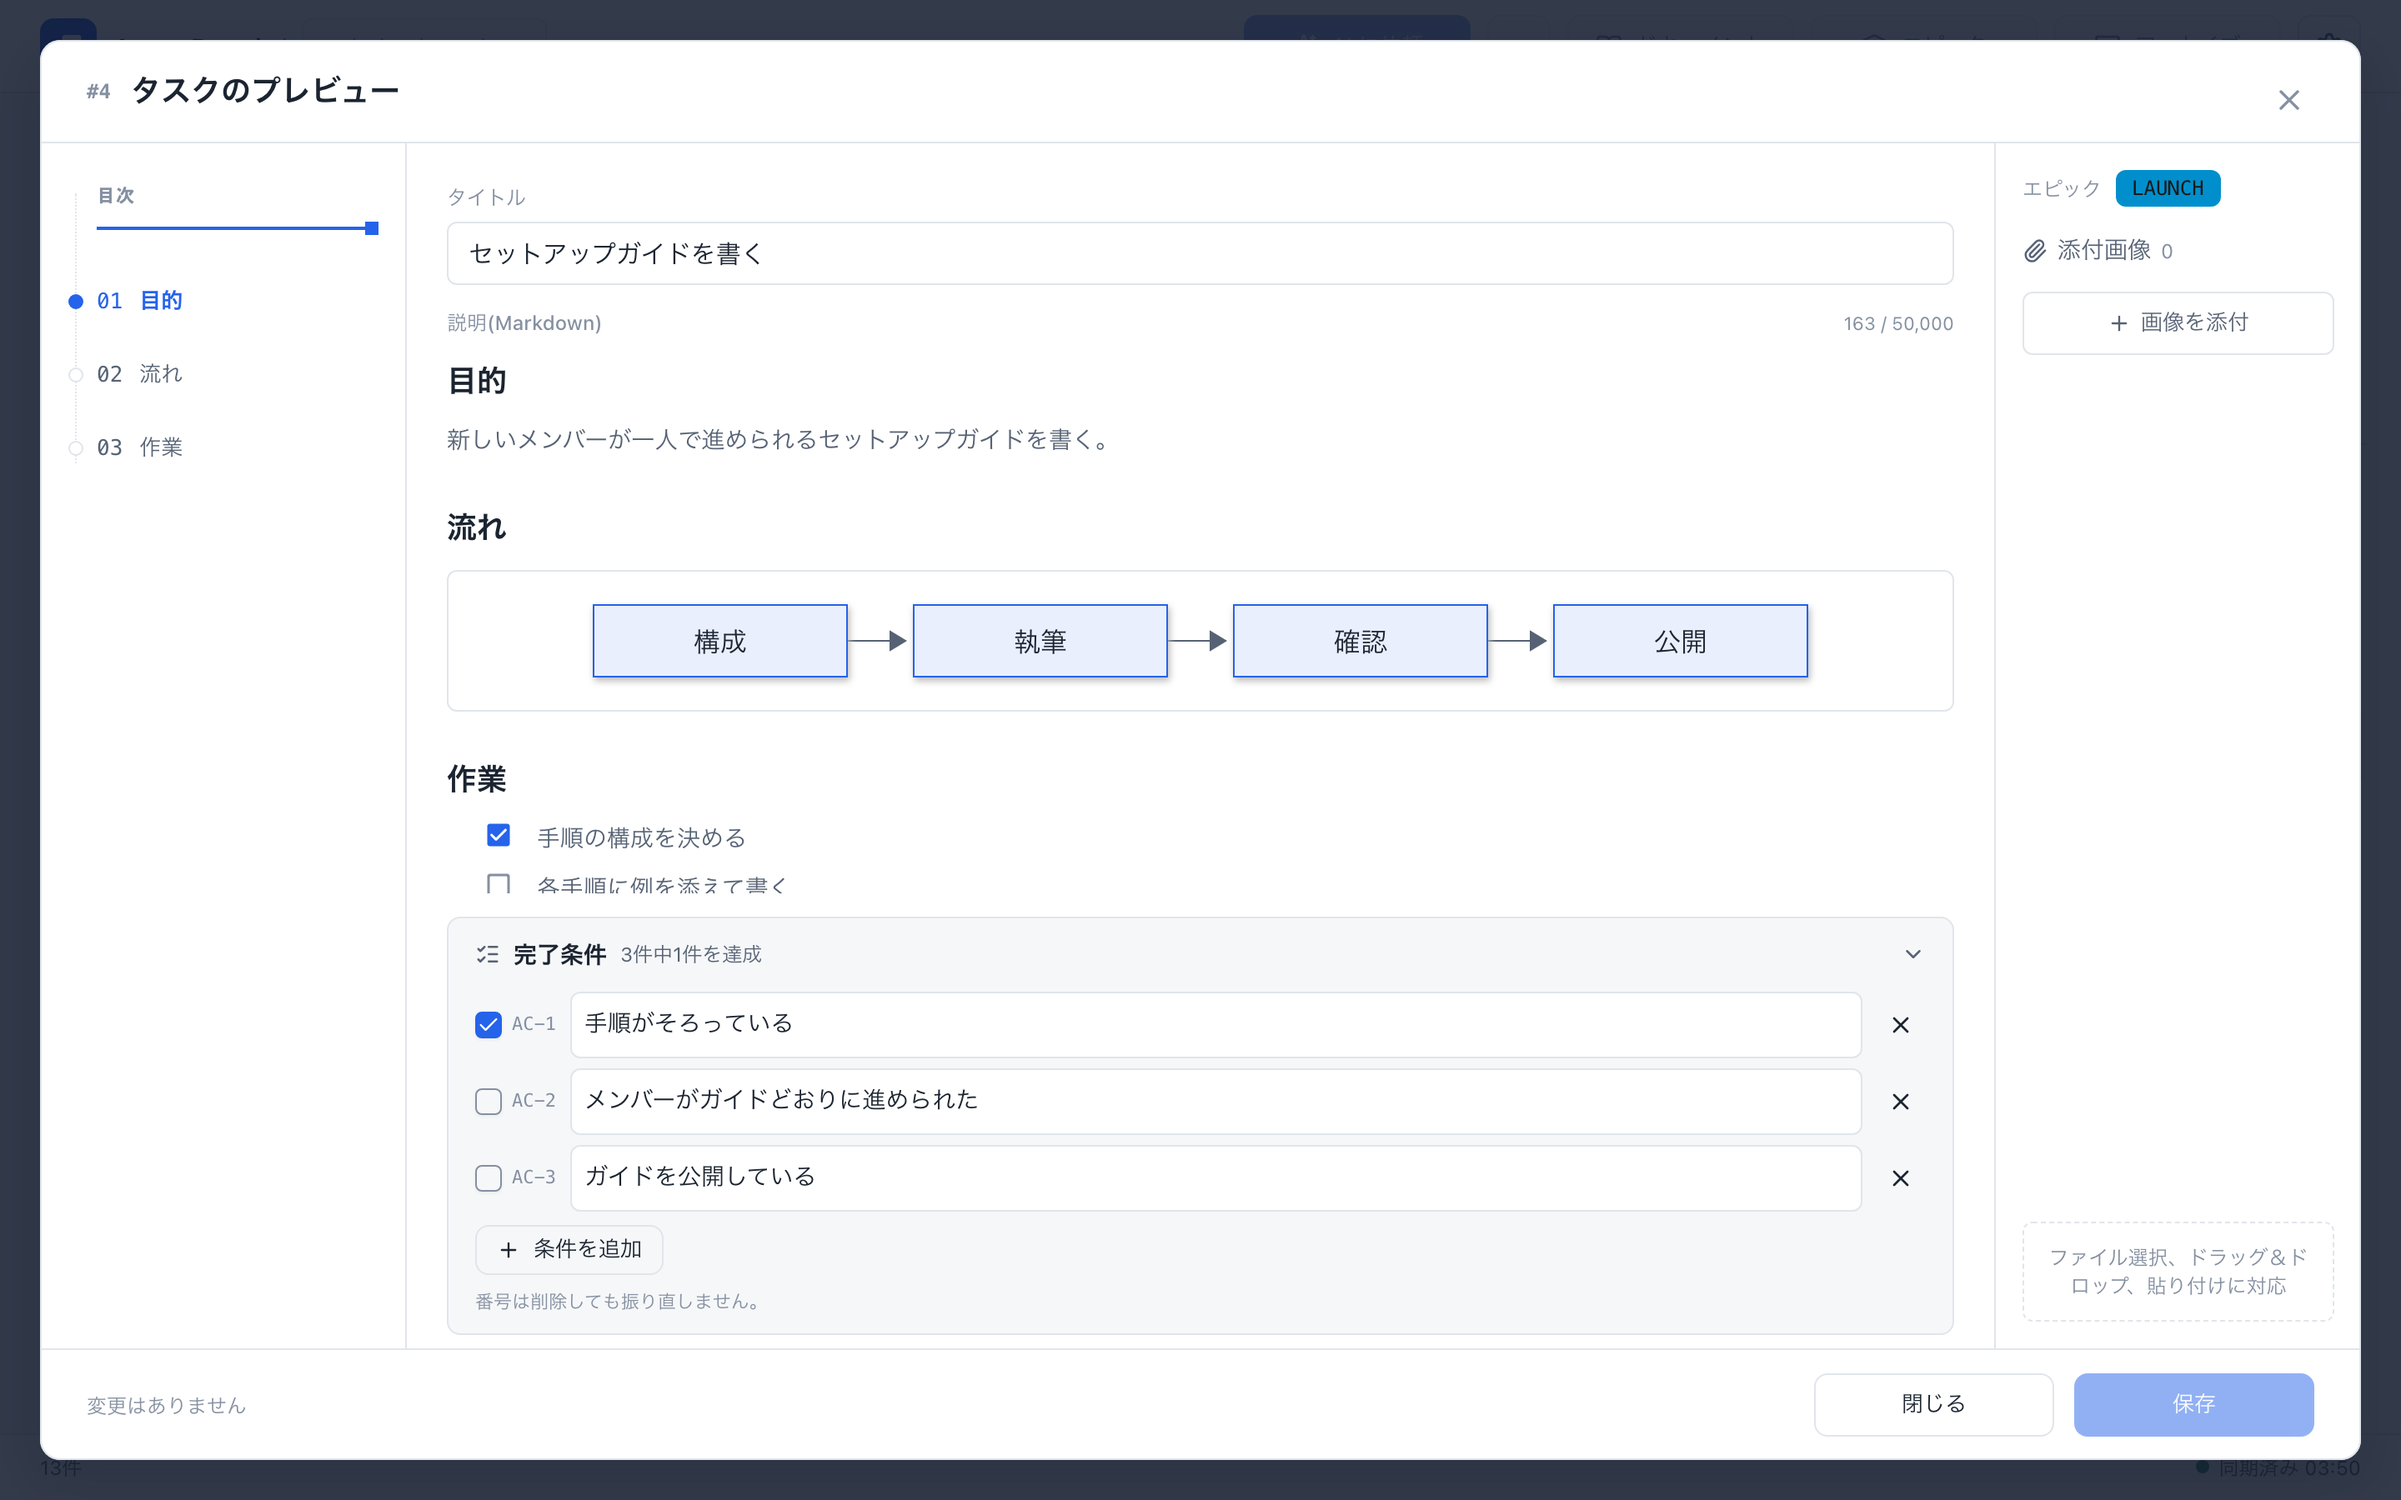
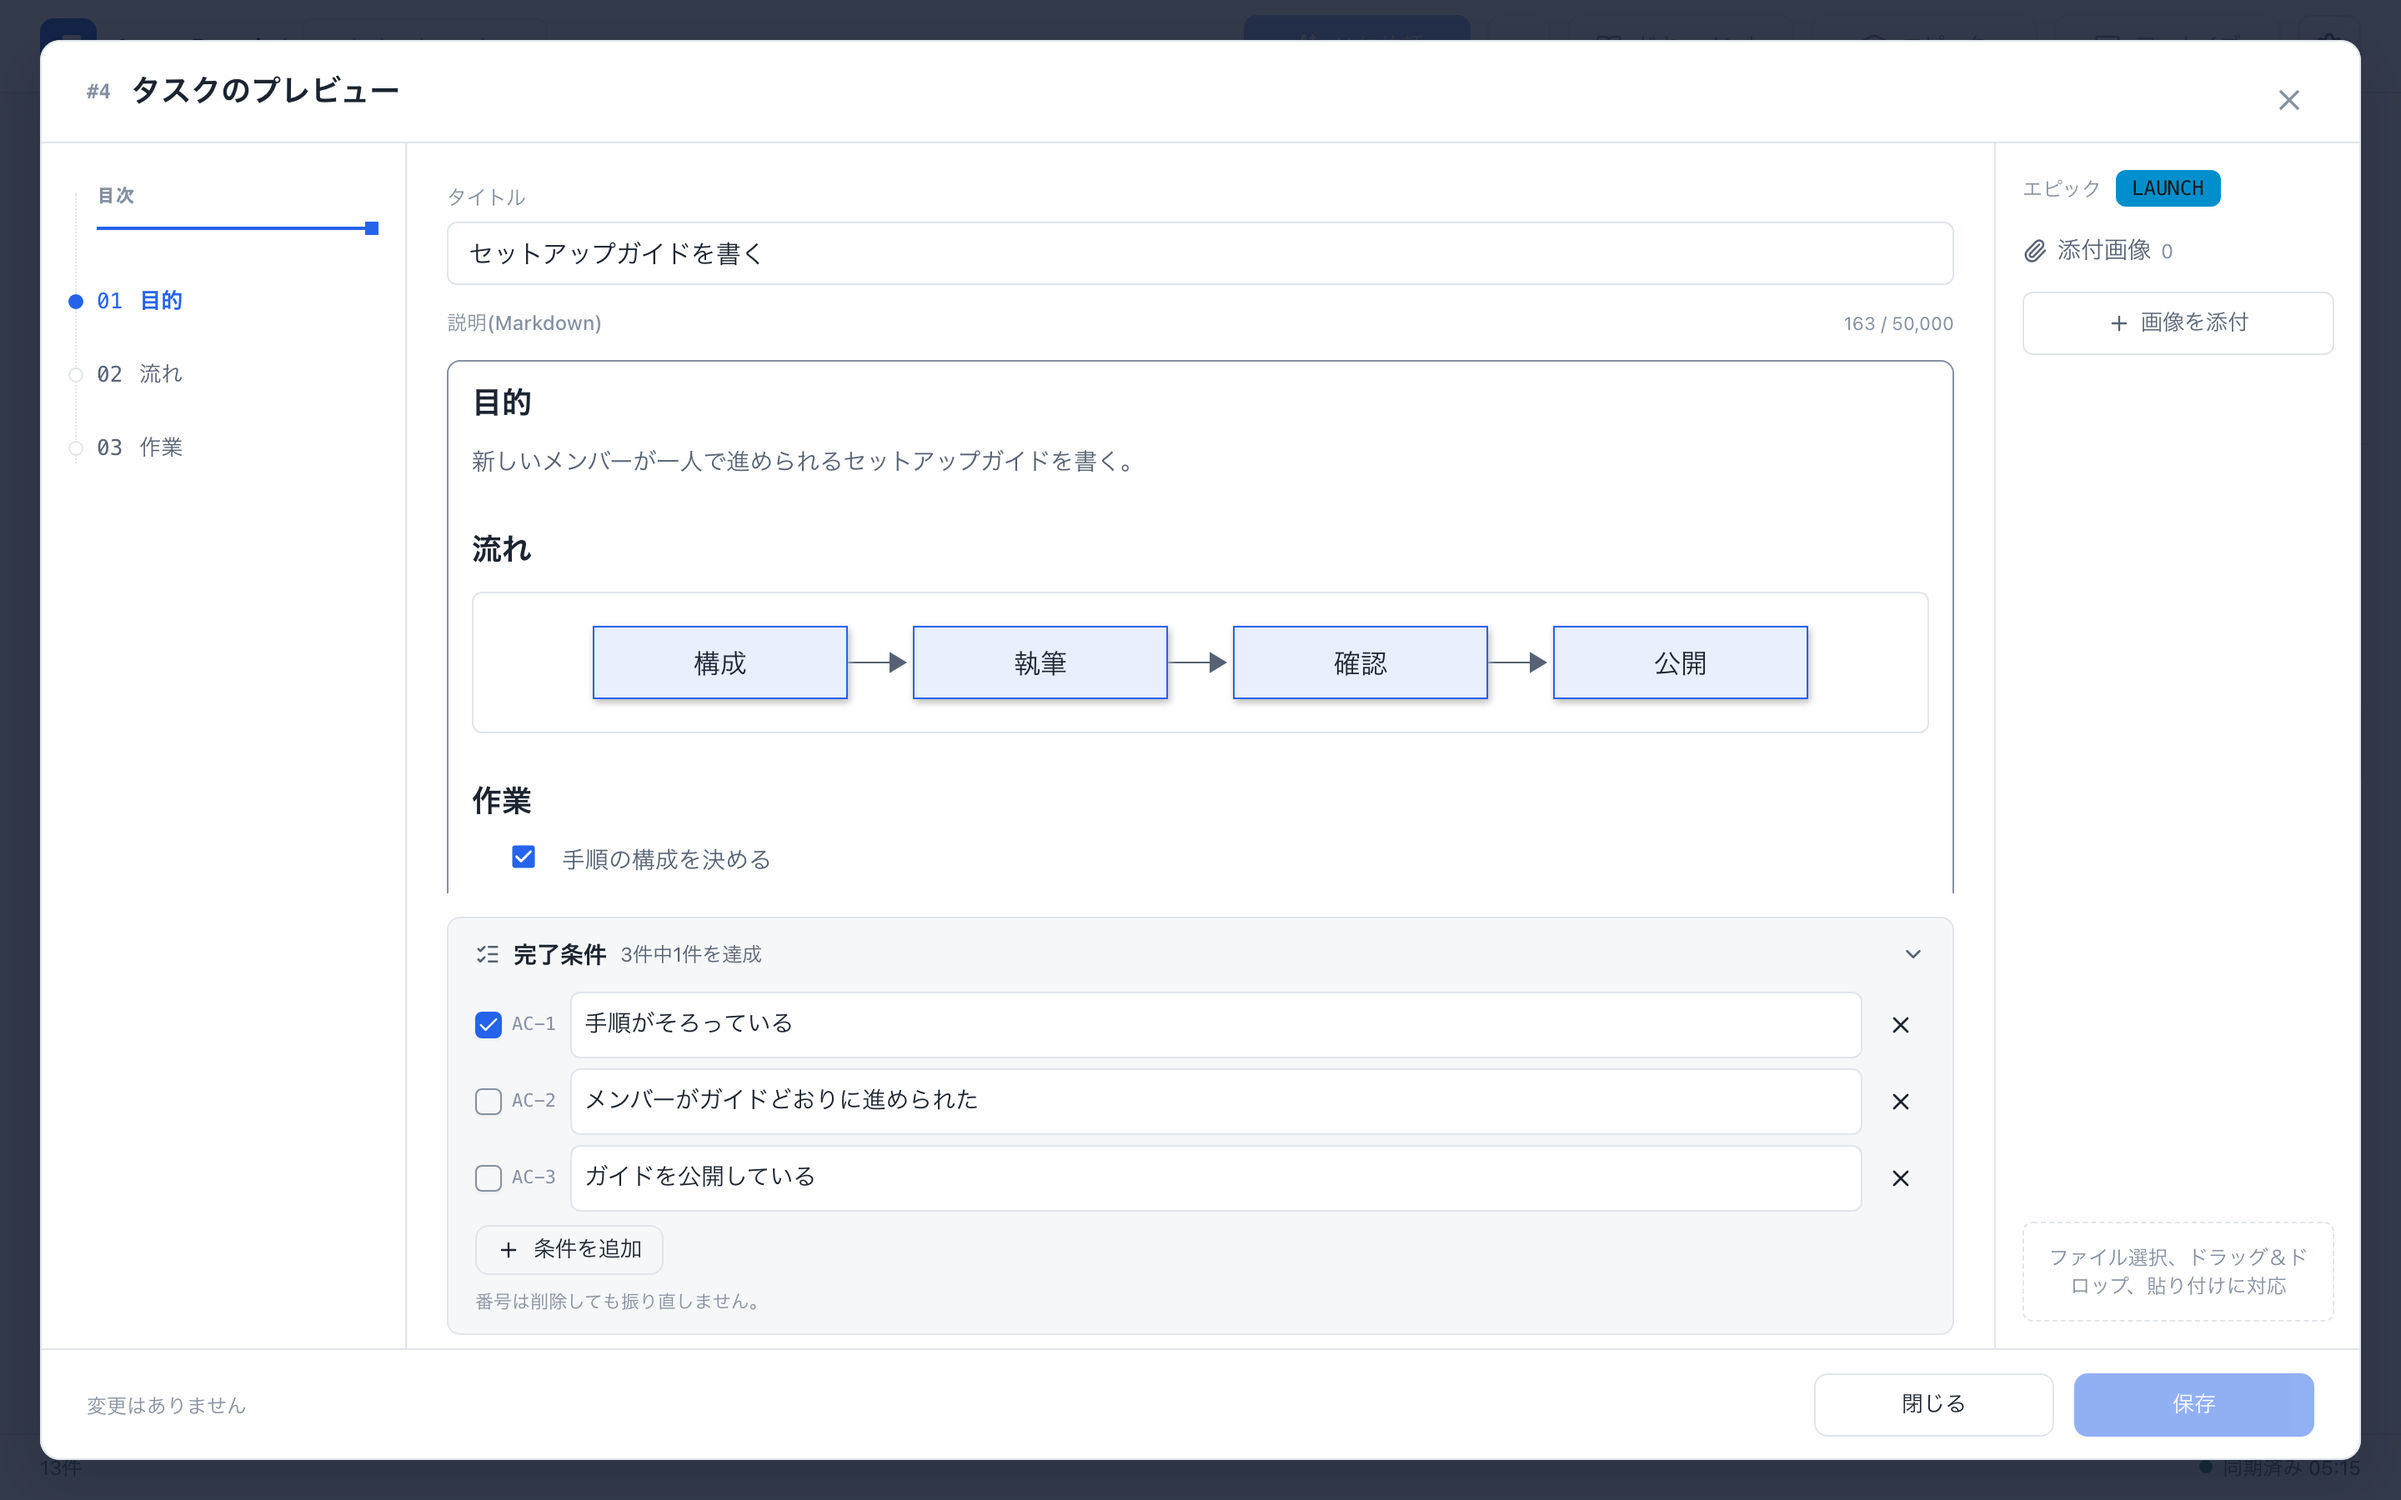
fix(web): give every Markdown input box the Ask AI frame and padding
The task, epic and docs editors now share the input border colour, the 12px by
14px padding, the accent focus border and the first-line alignment that the Ask AI
input has. The rule lives once in the common editor stylesheet; Ask AI keeps only
its own height. Editor screenshots are regenerated.

diff --git a/web/src/features/messages/ask/ask-ai.css b/web/src/features/messages/ask/ask-ai.css
@@ -12,33 +12,19 @@
   color: var(--r-text);
 }
 
-/* The input box: an outlined field in the input border colour, as tall as its text between a floor and
-   a ceiling, so a short request leaves no empty block and a long one scrolls inside the box. */
+/* The input box takes the shared editor frame; here it is as tall as its text between a floor and a
+   ceiling, so a short request leaves no empty block and a long one scrolls inside the box. */
 .ask-ai__box.editor__box {
   flex: none;
   height: auto;
   min-height: 140px;
   max-height: min(44vh, 360px);
-  padding: 12px 14px;
   overflow-y: auto;
-  border: 1px solid var(--r-input);
-  border-radius: 8px;
-  background: transparent;
   cursor: text;
-}
-
-.ask-ai__box.editor__box:focus-within {
-  border-color: var(--r-accent);
 }
 
 .ask-ai__box .rich-markdown .ProseMirror {
   min-height: 112px;
-}
-
-/* The first block sits on the top padding; a cursor widget may come before it. */
-.ask-ai__box .ProseMirror > :first-child,
-.ask-ai__box .ProseMirror > .ProseMirror-widget:first-child + * {
-  margin-top: 0;
 }
 
 .ask-ai--sheet .ask-ai__box.editor__box {

diff --git a/web/src/shared/styles/editor.css b/web/src/shared/styles/editor.css
@@ -520,16 +520,24 @@
   flex-direction: column;
   min-height: 0;
   overflow: hidden;
-  border: 1px solid var(--r-border);
+  padding: 12px 14px;
+  border: 1px solid var(--r-input);
   border-radius: 8px;
+  background: transparent;
 }
 
 .editor__box[data-over="true"] {
   border-color: var(--r-danger);
 }
 
-.editor__box:has(.ProseMirror-focused):not([data-over="true"]) {
+.editor__box:focus-within:not([data-over="true"]) {
   border-color: var(--r-accent);
+}
+
+/* The first block sits on the top padding; a cursor widget may come before it. */
+.editor__box .ProseMirror > :first-child,
+.editor__box .ProseMirror > .ProseMirror-widget:first-child + * {
+  margin-top: 0;
 }
 
 .editor__hint {

diff --git a/e2e/tests/editor-panels.spec.ts b/e2e/tests/editor-panels.spec.ts
@@ -87,7 +87,8 @@ test('creation and task editing use the same single conditions panel and compact
   await expect(dialog.locator('.editor__counter')).toHaveText('17 / 50,000');
   const label = await dialog.locator('.editor__label-row').boundingBox();
   const text = await editor.locator('p').first().boundingBox();
-  expect(text!.y - label!.y - label!.height).toBeLessThanOrEqual(16);
+  // The label, then the box's frame and its 12px top padding, then the first line.
+  expect(text!.y - label!.y - label!.height).toBeLessThanOrEqual(29);
   await expect(editor.locator('p').first()).toHaveCSS('font-size', '14px');
   await page.screenshot({ path: testInfo.outputPath('card-create.png') });
 });

diff --git a/web/src/shared/ui/editor/editor-common.css b/web/src/shared/ui/editor/editor-common.css
@@ -91,8 +91,6 @@
 .editor__box {
   flex: 1 0 auto;
   min-height: 240px;
-  border: 0;
-  border-radius: 0;
 }
 
 .editor__box > .rich-markdown {
@@ -527,10 +525,6 @@
   flex-direction: column;
   min-height: 0;
   max-height: 40%;
-}
-
-.editor__box .ProseMirror > :first-child {
-  margin-top: 0;
 }
 
 .editor-confirm__error {
